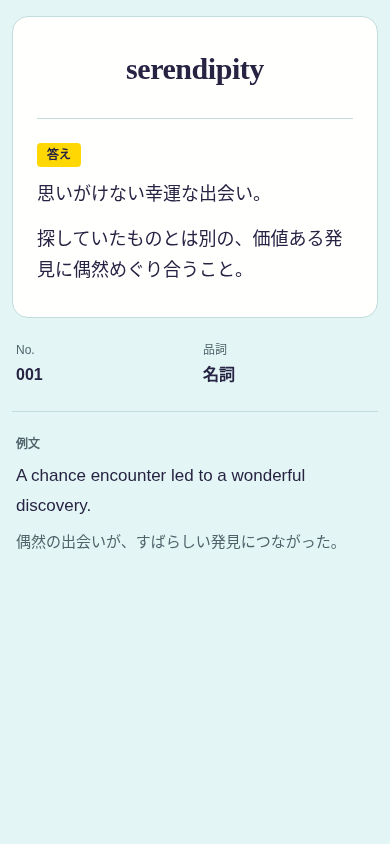
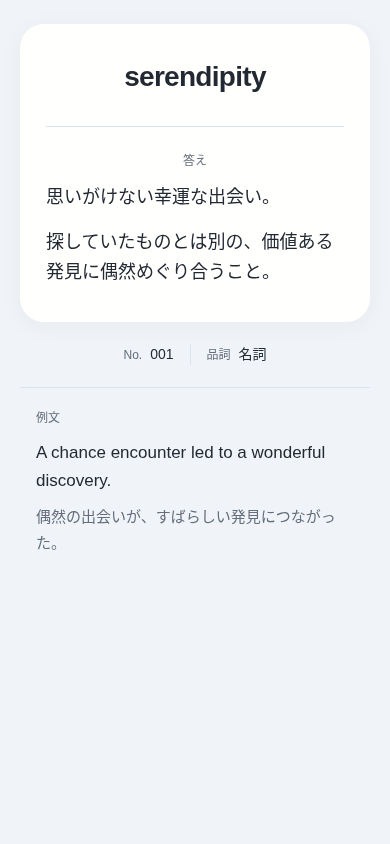
Restyle Anki cards with a soft Apple-inspired interface

diff --git a/DESIGN.md b/DESIGN.md
@@ -4,33 +4,34 @@
 
 ## 見た目と情報の順序
 
-- 淡いミントの背景に白い問題・答えの枠を置き、紺の文字で読みやすくまとめます。黄色は「答え」のラベルと文字の選択に使います。
-- 問題はセリフ体、答え・補足情報はサンセリフ体にして、見出しと本文を区別します。システムにあるフォントを使い、外部フォントを読み込みません。
-- 1つの問題・答えの枠と控えめな区切り線で整理します。グラデーション、ぼかし、影、テーマボタン、装飾用の色帯は使いません。
+- ユーザーの希望は「淡い色で、Apple風のすっきりした見た目」です。淡い青灰色の背景に白い問題・答えの枠を置きます。
+- 問題と本文は同じシステムのサンセリフ体を使い、サイズ・太さ・余白で階層を付けます。問題は600、短い答えは500、長文は400の太さです。
+- メインの枠は24〜26pxの角丸と、薄く柔らかな影で背景から区別します。Apple風という今回の指定に合わせた形です。枠線を重ねず、区切り線だけに薄い線を使います。
+- 答えのラベルは補足と同じ控えめな文字色です。短い答えとリンク・文字の選択に、落ち着いた青を使います。
 - 順序は「問題 → 答え → 単語情報 → 例文」です。答えは裏面でだけ追加し、同じ枠に区切り線と「答え」のラベルを付けます。
-- 単語情報と例文を別のカードで囲わず、余白と薄い区切り線で整理します。
+- 単語情報はラベルと値を並べたコンパクトな一行にします。例文は余白と薄い区切り線で整理します。
 - 中央の問題、短い答え、長い答えの左揃えを使い分けます。例文のラベルは日本語で「例文」とします。
 - ライト／ダークの自動切替は保ちます。文字は十分なコントラストを確保します。
 
 ## Happy Huesを参考にした配色
 
-[Happy Hues](https://www.happyhues.co/)由来の公開データにある「White Waters」をライト表示、「Midnight Evening」をダーク表示の参考にしています。
+[Happy Hues](https://www.happyhues.co/)由来の公開データにある「White On Melon」の白と淡い青を参考にしています。色の強さを抑え、ユーザーの指定したApple風の見た目に合わせて青灰色と読みやすい文字色を調整しています。
 
 | 用途 | ライト | ダーク |
 | --- | --- | --- |
-| 画面の背景 | `#e3f6f5` | `#1b2038` |
-| 問題・答えの枠 | `#fffffe` | `#232946` |
-| 問題・本文 | `#272343` | `#fffffe` |
-| 補足の文字 | `#50636b` | `#b8c1ec` |
-| 短い答え | `#272343` | `#bae8e8` |
-| 答えラベル・選択の背景 | `#ffd803` | `#ffd803` |
-| 答えラベル・選択の文字 | `#272343` | `#272343` |
-| リンク | `#245c60` | `#bae8e8` |
-| 区切り線 | `#c1dcda` | `#485475` |
+| 画面の背景 | `#f0f4f9` | `#15171b` |
+| 問題・答えの枠 | `#fffffe` | `#202329` |
+| 問題・本文 | `#232933` | `#f4f6f9` |
+| 補足・答えラベルの文字 | `#636d7b` | `#abb3c0` |
+| 短い答え | `#4a6180` | `#b7cce2` |
+| 選択の背景 | `#d8eefe` | `#314a65` |
+| 選択の文字 | `#232933` | `#f4f6f9` |
+| リンク | `#35628b` | `#adcbea` |
+| 区切り線 | `#dce3ec` | `#363c46` |
 
-黄色のラベルは答えの領域を見つけるための表示です。長い答えには本文色を使い、本文・補足・リンク・ラベルはそれぞれ背景とのコントラストを4.5:1以上にしています。
+長い答えには本文色を使い、本文・補足・リンク・短い答え・選択した文字はそれぞれ背景とのコントラストを4.5:1以上にしています。
 
-参照したのは[公開パレットデータの固定版](https://github.com/meodai/happyHuesColors/blob/32eb0d8078c83475721745358d5b06495fc137b0/dist/palettes.json)です。本家サイトは作業環境のネットワーク制限で直接閲覧できなかったため、このデータで色を確認しました。パレット名はこの公開データでの名称です。ライトの本文・補足・リンク・区切り線とダークの背景・区切り線は、読みやすさに合わせて調整した色です。
+参照したのは[公開パレットデータの固定版](https://github.com/meodai/happyHuesColors/blob/32eb0d8078c83475721745358d5b06495fc137b0/dist/palettes.json)です。本家サイトは作業環境のネットワーク制限で直接閲覧できなかったため、このデータで色を確認しました。パレット名はこの公開データでの名称です。`#fffffe`と`#d8eefe`は参照データの色で、その他は今回の表示用に調整した色です。
 
 ## 表面から裏面への伸縮
 

diff --git a/docs/validation.md b/docs/validation.md
@@ -8,11 +8,11 @@
 
 | 画面幅 | 問題だけ | 短い答えを表示 | 長い答えを表示 |
 | --- | ---: | ---: | ---: |
-| 320px | 約115px | 約240px | 約1402px |
-| 390px | 約115px | 約240px | 約1157px |
-| 480px | 約115px | 約240px | 約943px |
-| 768px | 約144px | 約272px | 約1055px |
-| 1024px | 約144px | 約272px | 約1055px |
+| 320px | 約114px | 約235px | 約1520px |
+| 390px | 約114px | 約235px | 約1214px |
+| 480px | 約114px | 約235px | 約1000px |
+| 768px | 約139px | 約263px | 約1046px |
+| 1024px | 約139px | 約263px | 約1046px |
 
 短い答えは「りんご」、長い答えは段落2つと箇条書きのサンプルです。すべての幅で、答えが問題の枠の内側に収まり、単語情報と例文がその下へ移動することを確認しました。メイン枠のmin-heightは0px、max-heightはnoneです。
 
@@ -27,26 +27,29 @@
 - 後から画像を読み込むと同じ枠の高さがさらに増えること。
 - 幅広の表を表の中で横スクロールできること。
 - 200%拡大、844×390pxの横向き。
-- 保存領域を使えない場合と、旧テーマのクラスが残っている場合でも、新しい単色表示が動くこと。
+- 保存領域を使えない場合と、旧テーマのクラスが残っている場合でも、現在の配色で表示されること。
 - OSのダークモード、AnkiのnightMode / night_modeクラス。
 
 JavaScriptエラーは発生していません。
 
 ## デザインの検査
 
-Impeccableのcolorizeとpolishの方針に沿って配色・文字・余白を整えました。スマートフォン・デスクトップの表面／裏面とダーク表示を目視で確認し、テンプレート3ファイルと展開済みHTMLを検査ツールで1回検査しています。検査結果は指摘なしでした。
+ImpeccableのquieterとOperateの方針に沿って配色・文字・余白を整えました。ユーザーの指定は「淡い色で、Apple風のすっきりした見た目」です。スマートフォンの表面／裏面、デスクトップの裏面とダーク表示を目視で確認しています。
 
-ライト／ダークの本文・補助文字・リンク・短い答え・黄色ラベルの計13組を、WCAGの相対輝度の式で計算しました。最小でも5.62:1で、いずれも通常の文字に必要な4.5:1以上です。代表値は以下のとおりです。
+テンプレート3ファイルと展開済みHTMLをImpeccableの検査ツールで1回検査し、指摘はありませんでした。
+
+ライト／ダークの本文・補助文字・リンク・短い答え・選択した文字の計16組を、WCAGの相対輝度の式で計算しました。最小でも4.75:1で、いずれも通常の文字に必要な4.5:1以上です。代表値は以下のとおりです。
 
 | 文字と背景 | コントラスト |
 | --- | ---: |
-| ライト：紺の本文／白い枠 | 14.91:1 |
-| ライト：補足の文字／ミントの背景 | 5.62:1 |
-| ライト：リンク／白い枠 | 7.56:1 |
-| 紺のラベル文字／黄色の背景 | 10.71:1 |
-| ダーク：白い本文／紺の枠 | 14.21:1 |
-| ダーク：補足の文字／紺の枠 | 8.04:1 |
-| ダーク：短い答え・リンク／紺の枠 | 10.69:1 |
+| ライト：本文／白い枠 | 14.61:1 |
+| ライト：補足の文字／青灰色の背景 | 4.75:1 |
+| ライト：リンク／白い枠 | 6.42:1 |
+| ライト：短い答え／白い枠 | 6.34:1 |
+| ライト：選択した文字／淡い青の背景 | 12.24:1 |
+| ダーク：本文／暗い枠 | 14.54:1 |
+| ダーク：補足の文字／暗い枠 | 7.45:1 |
+| ダーク：短い答え／暗い枠 | 9.56:1 |
 
 配色の参照元と採用色は[デザイン方針](../DESIGN.md)に記載しています。Happy Huesの本家サイトは直接閲覧できなかったため、Happy Hues由来の公開パレットデータを確認しました。
 

diff --git a/README.md b/README.md
@@ -1,6 +1,6 @@
 # Ankiカードデザイン
 
-Happy Huesの配色を参考に、Impeccableで整えたAnkiテンプレートです。淡いミントの背景、紺の文字、黄色の「答え」ラベルで、問題と答えを見分けやすくしています。**表面から裏面へ切り替えると、答えの分だけ同じ枠が下へ広がります。**
+淡い青灰色と白を使った、Apple風のAnkiテンプレートです。Happy Huesの配色を参考に、Impeccableで書体・余白・情報の階層を整えています。**表面から裏面へ切り替えると、答えの分だけ同じ枠が下へ広がります。**
 
 ## Ankiへの反映
 
@@ -26,12 +26,12 @@ GitHubで次の3ファイルを開き、内容全体をコピーしてAnkiの「
 
 ## 表示の動作
 
-- 色切替のボタン・保存処理はありません。ミント・白・紺を基調に、黄色を答えの目印として使います。
-- 問題はセリフ体、答えと補足情報はサンセリフ体にして、余白と控えめな区切り線で整理しています。
+- 色切替のボタン・保存処理はありません。淡い青灰色の背景に、丸い白いカードと薄い影を使います。
+- 書体はシステムのサンセリフ体に統一し、文字の大きさ・太さ・余白で問題と答えを整理しています。
 - 問題と答えの枠に最低高さ・高さの上限を設けません。短い答えでも枠が伸び、長い答えや画像が入るとさらに広がります。
 - 答えは問題の下に、区切り線と「答え」のラベルを付けて表示します。空の答えでは線・ラベル・余白を出しません。
 - 40文字を超える答えや箇条書き・表は、左揃えと広めの行間で表示します。高さに合わせて文字を際限なく縮めません。
-- 単語情報は枠の下に控えめに表示し、例文は裏面だけに表示します。
+- 単語情報は枠の下にコンパクトな一行で表示し、例文は裏面だけに表示します。
 - 画像は枠の幅に収めます。幅広の表は表の中だけを横スクロールでき、長いカードは画面全体を縦スクロールして読めます。
 - ダークモードはOSとAnkiの設定に応じて自動で切り替わります。
 - 外部フォントやWebライブラリの読み込みは不要です。
